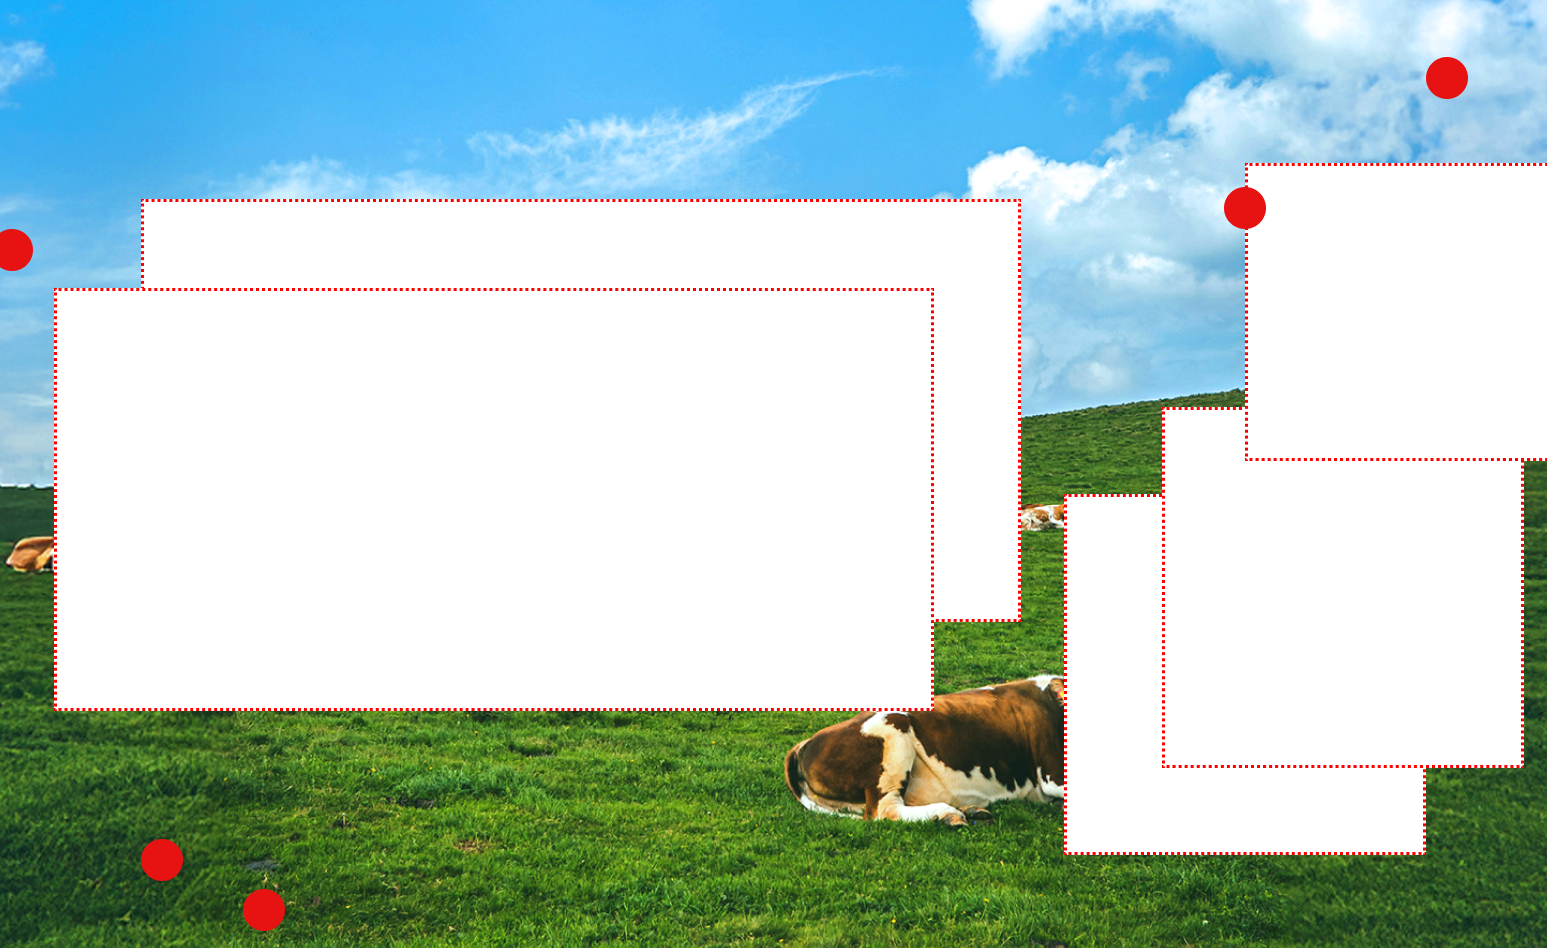
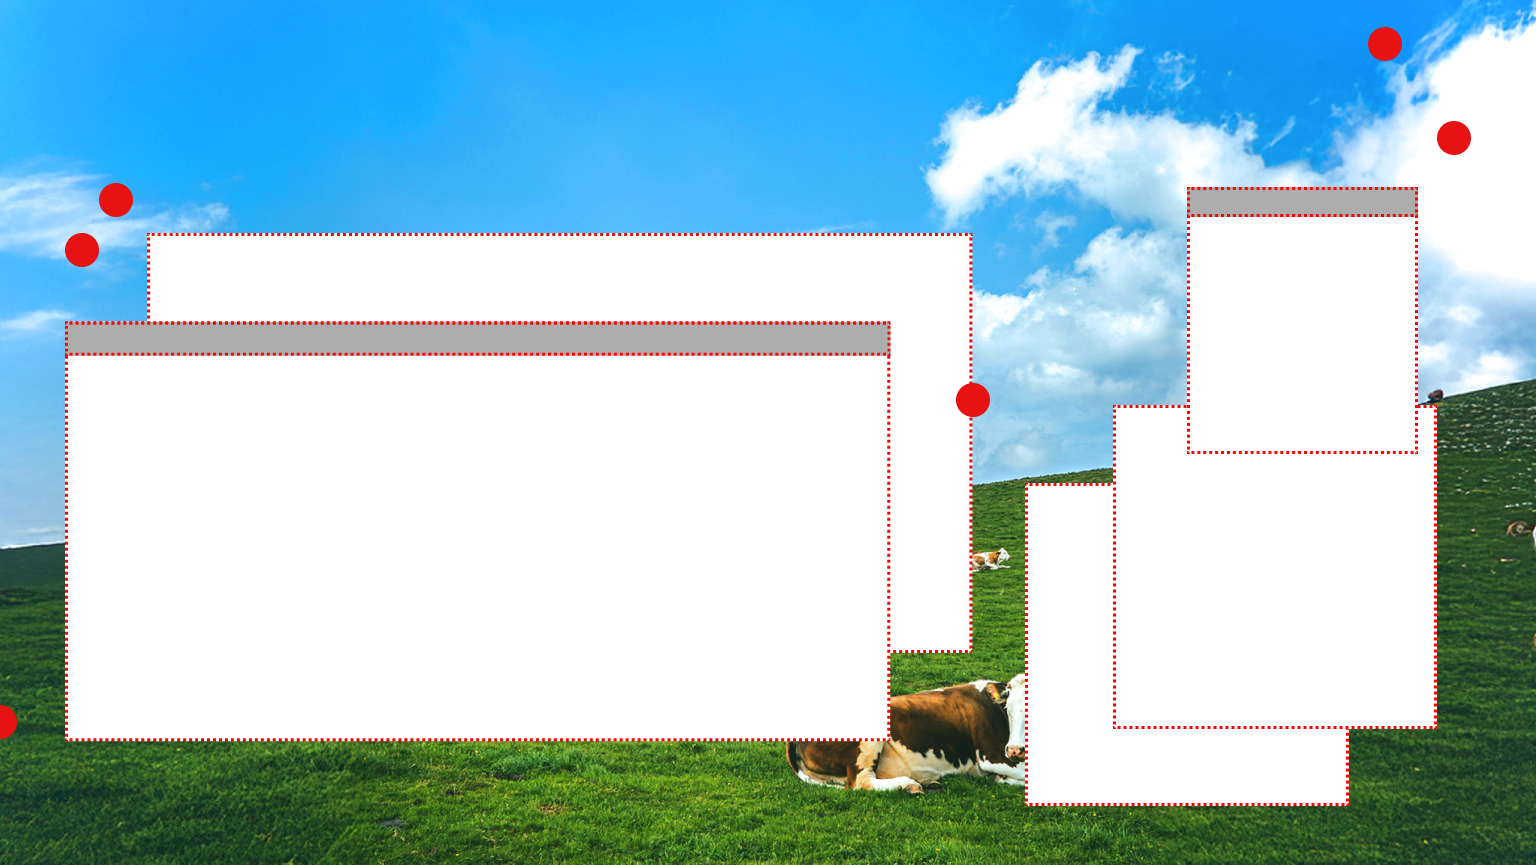
Add files via upload

diff --git a/main.html b/main.html
@@ -12,14 +12,14 @@
   	.en-font {font-family: "neue-haas-unica", sans-serif;
 				font-weight: 400;
 				font-style: italic;}
-    html, body {width: 100vw; height: 100vh; margin: 0; padding: 0;}
+    html, body {width: 100vw; height: 100vh; margin: 0; padding: 0; }
     section {width: 100vw; height: 100vh;}
     html, body, * {cursor: url('image1.png') 16 16, auto ;}
     html:active, body:active, *:active { cursor: url('2.png') 16 16, auto ;}
-
+.c-color{ color:#f42d2d; }
    .color {color: #f42d2d;}
    .blink-img:hover{animation:blink 0.2s steps(2,start) 3;}
-	@keyframes blink{to{visibility:hidden;}}
+	@keyframes blink{to{opacity:0;}}
 	 body {background-image: url('dot2bg.png');
           background-size: cover;
           background-position: center;
@@ -33,37 +33,38 @@
  	
  	<div style="margin: 0; position: relative;">
  		  <p class="color en-font" style="font-size: 4rem; margin: 0; padding-left: 900px;  transform:translate(120px, 45px); ">
- 		  	>>Story of Milk
+ 		  	》Story of Milk
  		  </p>
 
- 	</div>
- 	<div style="position: absolute;">
-	  <div style="
-	    display: flex; padding: 0;
-	   	justify-content:center; align-items:flex-start; 
-		 width:100vw; height:100vh; padding-top:100px;">
-		    <img id="hover-img" src="mooo1.png" style="width: 1000px;">
-		    <img src="mm.png" style="width: 270px; margin-left: 100px; padding-top: 120px;">
-	  </div>
-	 </div>
-	<div style="position: relative; pointer-events:none;">
- 		<img src="dot2.png" style="transform:translate(30px,0px);">
- 	</div>
- 	<div style="position: relative">
- 		<a href="index.html">
-			<img src="b1.png" class="blink-img" style="height: 60px; transform:translate(1250px,-250px)">
-		</a>
-		<a href="truth.html">
-	 		<img src="b2.png" class="blink-img" style="height: 60px; transform:translate(900px,-720px)">
-	 	</a>
-	 		<img src="b3.png" class="blink-img" style="height: 60px; transform:translate(-270px,-300px)">
-	 	<a href="efficacy.html">
-	 		<img src="b4.png" class="blink-img"style="height: 60px; transform:translate(-200px,-150px)">
-	 	</a>
- 		<a href="archive.html">
- 			<img src="b5.png" class="blink-img" style="height: 60px; transform:translate(100px,-650px)">
- 		</a>
- 	</div>
+ 	<div style="position: relative; width: 100vw; height: 100vh;">
+
+  
+  <div style="display: flex; justify-content: center; align-items: flex-start; padding-top: 100px;">
+    <img id="hover-img" src="mooo1.png" style="width: 1000px;">
+    <img src="mm.png" style="width: 270px; margin-left: 100px; padding-top: 120px;">
+  </div>
+
+ 
+  <img src="dot2.png" style="position: absolute; top: 0; left: 30px; pointer-events: none;">
+
+  
+	  <a href="index.html">
+	    <img src="b1.png" class="blink-img" style="position: absolute; height: 140px; top: 600px; left: 1400px;">
+	  </a>
+	  <a href="truth.html">
+	    <img src="b2.png" class="blink-img" style="position: absolute; height: 140px; top: 140px; left: 1140px;">
+	  <a href="surprise.html">
+	  <img src="b3.png" class="blink-img" style="position: absolute; height: 140px; top: 650px; left: 300px;">
+	  </a>
+	  <a href="efficacy.html">
+	    <img src="b4.png" class="blink-img" style="position: absolute; height: 140px; top: 400px; left: 100px;">
+	  </a>
+	  <a href="archive.html">
+	    <img src="b5.png" class="blink-img" style="position: absolute; height: 140px; top: 300px; left: 800px;">
+	  </a>
+<p class="c-color" style="margin: 0; padding-top: 50px; text-align: center;">Copyright © 2025 Story of Milk. 모든 권리 보유.</p>
+</div>
+ 	
 </section>
   <script>
 	    const img = document.getElementById('hover-img');

diff --git a/index.html b/index.html
@@ -39,7 +39,7 @@
 
         .wrap img { width: 100%; height: auto; position: absolute;}
         .wrap img.umma-img {top: 20px;}
-        .umma-hover {transition: all 0.3s ease; z-index: 2; transform: translate(-50%, -50%);}
+.umma-hover {transition: all 0.3s ease; z-index: 2; transform: translate(-50%, -50%);}
 
 .umma-hover:hover {
   transform: translate(-50%, -50%) scale(1.08);
@@ -62,6 +62,8 @@
   font-size: 1.2rem;
   margin: 0;
   text-align: left;}
+
+.c-color{ color:#f42d2d; }
 
     </style>
 
@@ -95,6 +97,9 @@
     transform: rotate(-5deg);
     z-index: 3;">
      <p class="kr-font" style="font-size: 1.3rem; position: absolute; top: 40px; left: 55px; z-index: 4;text-align: left;">!우유의 이야기를 <br>들어보세요! </p>
+
+     <p class="en-font" style="font-size: 2rem; position: absolute; top: 100px; left: 1200px; z-index: 4;text-align: left;">↓↓↓Click The Cow↓↓↓</p>
+
     
     <div class="text-box-outer" style="padding-left: 13px; padding-right: 13px;">
       <p class="kr-font text-box-inner">
@@ -107,7 +112,8 @@
     <p class="kr-font" style=" position: absolute; bottom: -5px; left: 40px; z-index: 4;text-align: left;"> 
         <span style=" font-size: 4.2rem;"> 牛奶</span> <br> 
         <span style=" font-size: 4.2rem;">Milk</span> 
-        <span style="font-size: 2rem;">: 1소의 젖, 2 영어권에서는 양, 염소 등의 젖도 통칭</span></p>
+        <span style="font-size: 2rem;">: 1소의 젖, 2 영어권에서는 양, 염소 등의 젖도 통칭</span>
+        <span style="font-size: rem; padding-left:300px;">Copyright © 2025 Story of Milk. 모든 권리 보유.</span></p>
     </section>
     <script>
       document.getElementById('sound-img').addEventListener('click', function() {

diff --git a/surprise.html b/surprise.html
@@ -11,7 +11,7 @@
   <title>우유의효능</title>
 </head>
 <style>
-  .en-font {
+	.en-font {
      font-family: "neue-haas-unica", sans-serif;font-weight: 400;font-style: italic;}
     .kr-font {font-family: "Gothic A1", sans-serif;
               font-weight: 400;
@@ -21,13 +21,11 @@
     
     html, body, *{cursor: url('image1.png') 16 16, auto ;}
     html:active, body:active, *:active { cursor: url('2.png') 16 16, auto ;overflow-x: hidden}
-    body {background-image: url('bbbb1.png');
+    body {background-image: url('bg1.png');
           background-size: cover;
           background-position: center;
           background-repeat: no-repeat;}
-    .blink-img:hover{animation:blink 0.2s steps(2,start) 3;}
-    @keyframes blink{to{visibility:hidden;}}
-    .milk-btn {
+  .milk-btn {
   position: absolute;
   left: 89vw;
   top: 83vh;
@@ -35,7 +33,8 @@
   transition: transform 0.1s;}
     .milk-btn:hover {
       transform: rotate(-12deg);}
-      .background-img {
+
+  .background-img {
   position: fixed;
   top: 0;
   left: 0;
@@ -46,24 +45,15 @@
 }
 </style>
 <body>
-  <section style="margin: 0;">
+	<section style="margin: 0;">
     <p class="en-font color" style="font-size: 3.6rem; margin: 0; padding-top: 33px;
     padding-left: 60px;">Story of Milk </p>
   </section>
-  <section>
-    <img src="b12.png" style="height: 47px; transform:translate(60px,10px)">
-  </section>
-  <section>
-    <div style="display: flex; justify-content: center; align-items: center; height: 100vh; padding-bottom: 100px;">
-      <img src="1.jpg" style="">
-  </div>
-  </section>
-  <section>
+   <section>
     <a href="main.html" >
        <img src="b1.png" alt="main" class="milk-btn">
     </a>
     </section>
-
-
+ 
 </body>
 </html>

diff --git a/efficacy.html b/efficacy.html
@@ -15,17 +15,13 @@
     
     html, body, *{cursor: url('image1.png') 16 16, auto ;}
     html:active, body:active, *:active { cursor: url('2.png') 16 16, auto ;}
-    body {background-image: url('bg3.png');
+    body {background-image: url('bbbb1.png');
           background-size: cover;
           background-position: center;
           background-repeat: no-repeat;}
     .blink-img:hover{animation:blink 0.2s steps(2,start) 3;}
     @keyframes blink{to{visibility:hidden;}}
-    .milk-btn {position: absolute;  position: absolute;
-  left: 85vw;  
-  top: 90vh;   
-  height: 50px;
-  transition: transform 0.1s; height: 50px;    transition: transform 0.1s;}
+    .milk-btn {position: absolute; left: 1530px; top: 880px; height: 50px;    transition: transform 0.1s;}
     .milk-btn:hover {
       transform: rotate(-12deg);}
 </style>
